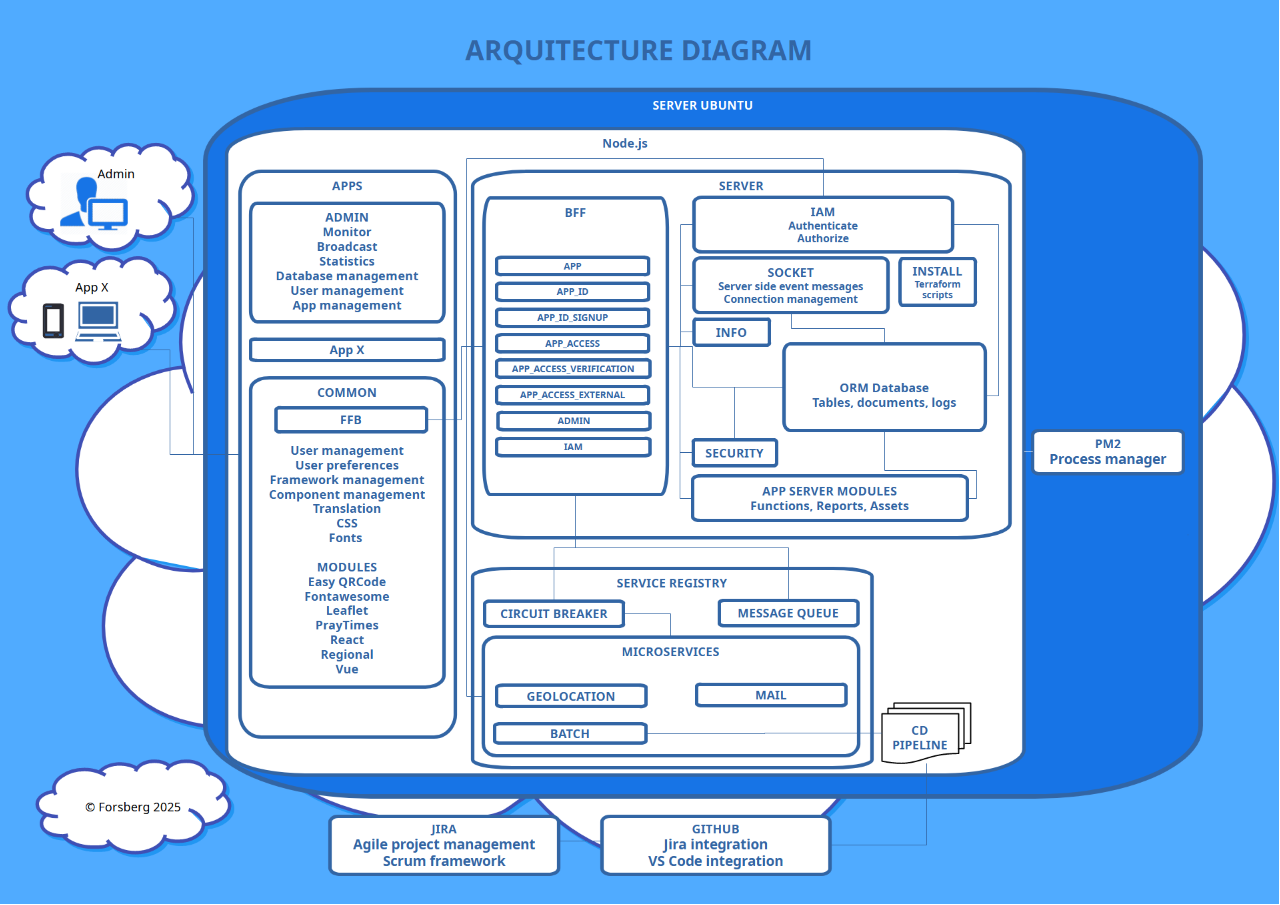
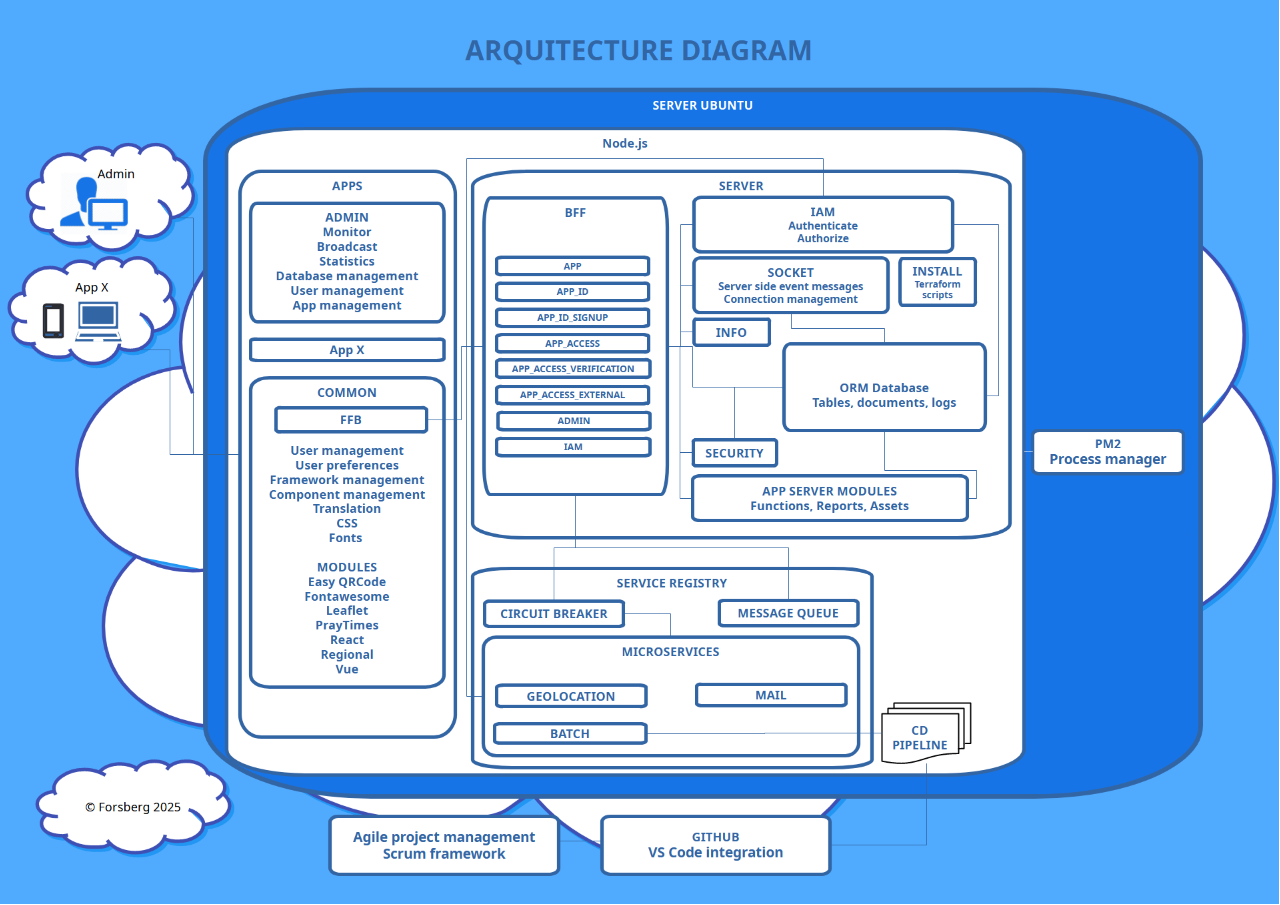
Ap-1 removes jira reference in documentation and arquitecture diagram and start to use new project key AP

Changed region(s): [[0.2812, 0.8972, 0.4062, 0.9591], [0.5, 0.8972, 0.625, 0.9591]]

diff --git a/apps/common/src/functions/documentation/1.introduction.md b/apps/common/src/functions/documentation/1.introduction.md
@@ -47,7 +47,7 @@ included different arabic scripts and different font heights (Nastaliq).
 Any regional setting supported including direction right to left. More than 500 locales with language and
 country translations. Logographic UI chosen is implemented to minmize text usage and to provide simplier and better explanation to a global audience.
 
-Developed in Visual Studio Code in Windows with integration with Github and Jira following 
+Developed in Visual Studio Code in Windows with integration with Github following 
 Scrum agile project management framework and deployed on Oracle Cloud and Ubuntu server.
 
 ## Providers

diff --git a/README.md b/README.md
@@ -46,7 +46,7 @@ Any regional setting supported including direction right to left. More than 500 
 country translations. The mayor 30 languages are translated in the apps. Icons are frequently used 
 to minmize text usage and to provide simplier and better explanation to a global audience.
 
-Developed in Visual Studio Code in Windows with integration with Github and Jira following 
+Developed in Visual Studio Code in Windows with integration with Github following 
 Scrum agile project management framework and deployed on Oracle Cloud and Ubuntu server.
 
 # Installation

diff --git a/apps/common/src/functions/documentation/6.development.md b/apps/common/src/functions/documentation/6.development.md
@@ -73,16 +73,6 @@ example:
 [user]
 	email = [email]
 ```
-### Github and Jira integration
-
-Jira
-Plan, track and manage agile and software development projects.
-Create account
-`https://www.atlassian.com/software/jira`
-
-Install Github for Jira plugin in the apps menu in the account and follow instruction how to configure
-connection to repository in Github.
-Use project key and issue for comments example "ABC-123 Comment".
 
 ## Typescript
 
